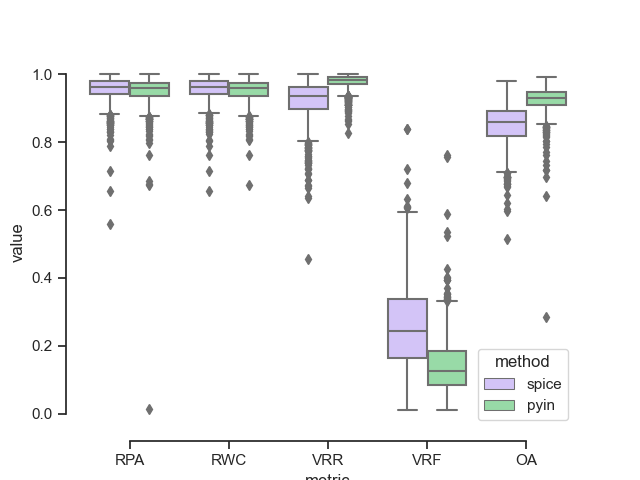
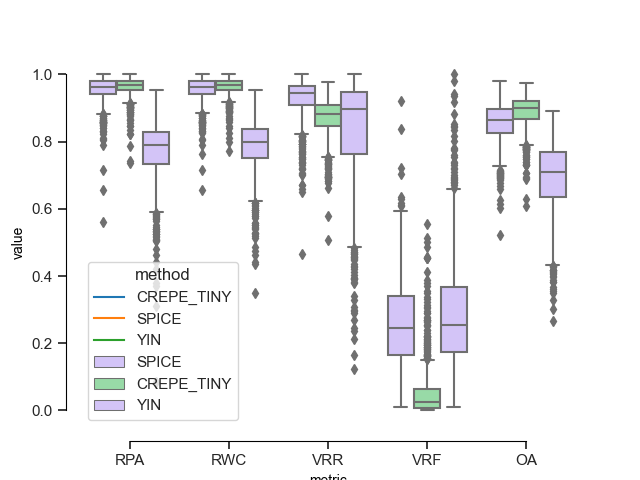
hf0 v1

diff --git a/evaluate.py b/evaluate.py
@@ -3,14 +3,14 @@ import tensorflow as tf
 import tensorflow_hub as hub
 import numpy as np
 import pandas as pd
-from utils import get_wav_paths, get_parser_and_config, semitones2hz
-from multiprocessing import Pool
-from scipy.io import wavfile
-import  pickle
-import crepe.crepe as crepe
-import librosa
-from tqdm import tqdm
+import pickle
 import aubio
+import crepe.crepe as crepe
+import matlab.engine
+import time
+from utils import get_wav_paths, get_parser_and_config, semitones2hz
+from scipy.io import wavfile
+from tqdm import tqdm
 
 
 MAX_ABS_INT16 = 32768.0
@@ -18,6 +18,22 @@ MAX_ABS_INT16 = 32768.0
 def predict(model, audio):
     model_output = model.signatures["serving_default"](tf.constant(audio, tf.float32))
     return output2hz(model_output["pitch"]), 1 - model_output["uncertainty"]
+
+
+def predict_yin(yin, audio, n):
+    pitch_pred = np.zeros(n)
+    confidence_pred = np.zeros(n)
+
+    for i in range(0, len(audio) // 512):
+        sample = audio[(i*512):(i*512)+512]
+        pitch_pred[i] = yin(sample)[0]
+        confidence_pred[i] = yin.get_confidence()
+
+    cmin = confidence_pred.min()
+    cmax = confidence_pred.max()
+
+    confidence_pred = 1 - (confidence_pred - cmin) / (cmax - cmin + 0.0001)
+    return pitch_pred, confidence_pred
 
 
 def output2hz(pitch_output):
@@ -35,53 +51,69 @@ def get_waveform(path):
     return sr, waveform
 
 
+def evaluate(dataset, tracker_name, wav_dir_path, results_dir_path, yin_thresh=0.8):
+    sr = 16000
+    wav_paths = get_wav_paths(wav_dir_path)
+    rows = []
+
+    if tracker_name == 'SPICE':
+        tracker = hub.load("https://tfhub.dev/google/spice/2")
+    elif tracker_name == 'CREPE_TINY':
+        tracker = crepe.build_and_load_model('tiny')
+    elif tracker_name == 'YIN':
+        tracker = aubio.pitch("yinfft", 1024, 512, sr)
+        tracker.set_tolerance(yin_thresh)
+    elif tracker_name == 'hf0':
+        eng = matlab.engine.start_matlab()
+        eng.cd('./hf0')
+        eng.mirverbose(0)
+        convnet = eng.getfield(eng.load('convModel.mat'), 'convnet')
+
+    for path in tqdm(wav_paths):
+        _, waveform = get_waveform(path)
+        duration = len(waveform) / float(sr)
+        model_time = np.arange(0, duration + 0.0001, 0.032)
+
+        # Measure time of evaluation
+        t_start = time.perf_counter()
+
+        if tracker_name == 'SPICE':
+            pitch_pred, confidence_pred = predict(tracker, waveform)
+            pitch_pred, confidence_pred = pitch_pred.numpy(), confidence_pred.numpy()
+        elif tracker_name == 'CREPE_TINY':
+            _, pitch_pred, confidence_pred, _ = crepe.predict(waveform, sr, tracker, step_size=32, verbose=0)
+        elif tracker_name == 'hf0':
+            pitch_pred, hf0_time, hf0_load_time = eng.PitchExtraction(os.path.abspath(path), convnet, nargout=3)
+        elif tracker_name == 'YIN':
+            pitch_pred, confidence_pred = predict_yin(tracker, waveform, len(model_time))
+
+        t_end = time.perf_counter()
+        elapsed_time = t_end - t_start
+
+        if tracker_name == 'hf0':
+            elapsed_time -= hf0_load_time
+            pitch_pred = np.array(pitch_pred).ravel()
+            hf0_time = np.array(hf0_time).ravel() - 0.032
+            pitch_pred = np.interp(model_time, hf0_time, pitch_pred)
+            confidence_pred = np.array(pitch_pred > 0, dtype=np.int)
+        
+        f_name = os.path.splitext(os.path.basename(path))[0]
+        rows.append([f_name, model_time, pitch_pred, confidence_pred])   
+
+    save_path = os.path.join(results_dir_path, f'{dataset}_{tracker_name}.pkl')
+    with open(save_path, 'wb') as f:
+        df = pd.DataFrame(rows, columns=["file", "time", "pitch", "confidence"])
+        pickle.dump(df, f)
+
+
 def main():
     # tf.config.set_visible_devices([], 'GPU')
     parser, conf = get_parser_and_config()
     parser.add_argument('net', type=str)
     args = parser.parse_args()
     conf = conf[args.ds_name]
+    evaluate(args.ds_name, args.net, conf["output_dir_wav"], conf['root_results_dir'])
 
-    if args.net == 'SPICE':
-        model = hub.load("https://tfhub.dev/google/spice/2")
-    elif args.net == 'CREPE_TINY':
-        model = crepe.build_and_load_model('tiny')
-
-    wav_paths = get_wav_paths(conf["output_dir_wav"])
-    rows = []
-
-    for path in tqdm(wav_paths):
-        sr, waveform = get_waveform(path)
-        duration = len(waveform) / float(sr)
-        time = np.arange(0, duration + 0.0001, 0.032)
-
-        if args.net == 'SPICE':
-            pitch_pred, confidence_pred = predict(model, waveform)
-            pitch_pred, confidence_pred = pitch_pred.numpy(), confidence_pred.numpy()
-        elif args.net == 'CREPE_TINY':
-            _, pitch_pred, confidence_pred, _ = crepe.predict(waveform, sr, model, step_size=32, verbose=0)
-        elif args.net == 'YIN':
-            pitch_o = aubio.pitch("yinfft", 2048, 512, sr)
-            pitch_pred = np.zeros(time.shape)
-            confidence_pred = np.ones(time.shape)
-
-            for i in range(len(waveform) // 512):
-                sample = waveform[(i*512):(i*512)+512]
-                pitch_pred[i] = pitch_o(sample)[0]
-                confidence_pred[i] = pitch_o.get_confidence()
-            cmin = confidence_pred.min()
-            cmax = confidence_pred.max()
-
-            confidence_pred = 1 - (confidence_pred - cmin) / (cmax - cmin)
-        
-
-        f_name = os.path.splitext(os.path.basename(path))[0]
-        rows.append([f_name, time, pitch_pred, confidence_pred])   
-
-    save_path = os.path.join(conf['root_results_dir'], f'{args.ds_name}_{args.net}.pkl')
-    with open(save_path, 'wb') as f:
-        df = pd.DataFrame(rows, columns=["file", "time", "pitch", "confidence"])
-        pickle.dump(df, f)
 
 
 if __name__ == "__main__": 

diff --git a/tune_yin.py b/tune_yin.py
@@ -1,0 +1,50 @@
+import numpy as np
+import os
+import configparser
+import pandas as pd
+import pickle 
+from plots import read_label, add_voicing_and_cents
+from utils import get_time_series_paths
+from mir_eval.melody import raw_pitch_accuracy
+from evaluate import evaluate
+
+
+def main():
+    dataset = 'MIR-1k'
+    tracker = 'YIN'
+
+    conf = configparser.ConfigParser(interpolation=configparser.ExtendedInterpolation())
+    conf.read('consts.conf')
+    conf = conf[dataset]
+
+    labels = map(read_label, get_time_series_paths(conf['output_dir_label']))
+    labels_df = pd.DataFrame(labels, columns=['file', 'label_time', 'label_pitch'])
+
+    thresholds = np.arange(0.1, 1, 0.05)
+    rpa = []
+
+    for t in thresholds:
+        evaluate(dataset, tracker, conf['output_dir_wav'], conf['root_results_dir'], t)
+
+        with open(os.path.join(conf['root_results_dir'], f'{dataset}_{tracker}.pkl'), 'rb') as f:
+            df = pickle.load(f)
+
+        df['method'] = tracker 
+        df = labels_df.join(df.set_index('file'), on='file')
+
+        df = df.apply(lambda x: add_voicing_and_cents(x, conf), axis=1)
+        df["RPA"] = df[['ref_voicing', 'ref_cent', 'est_voicing', 'est_cent']].apply(
+                lambda r: raw_pitch_accuracy(r[0], r[1], r[2], r[3]), raw=True, axis=1)
+        m = df['RPA'].mean()
+        rpa.append(m)
+        print(t, m)
+    
+    print(thresholds[np.argmax(rpa)], np.max(rpa))
+
+    
+        
+
+
+
+
+main()

diff --git a/plots.py b/plots.py
@@ -25,7 +25,7 @@ def add_voicing_and_cents(df, conf):
     #     est_voicing = df['pitch'] > 0
     
     df['ref_voicing'], df['ref_cent'], df['est_voicing'], df['est_cent'] = to_cent_voicing(
-            df['label_time'], df['label_pitch'], df['time'], df['pitch'], est_voicing)
+            df['label_time'], df['label_pitch'], df['time'], df['pitch'], est_voicing, hop=0.032)
 
     return df
 
@@ -126,7 +126,8 @@ def main():
     print('Labels ready ...')
 
     # Load results
-    detectors = ["SPICE", "CREPE_TINY", 'YIN']
+    # detectors = ["SPICE", "CREPE_TINY", 'YIN', 'hf0']
+    detectors = ['hf0']
     dfs = []
 
     for detector in detectors:
@@ -138,6 +139,7 @@ def main():
         dfs.append(labels_df.join(df.set_index('file'), on='file'))
     
     results_df = pd.concat(dfs)
+    results_df = results_df.dropna()
     print('Results ready ...')
 
     # Convert to cents
